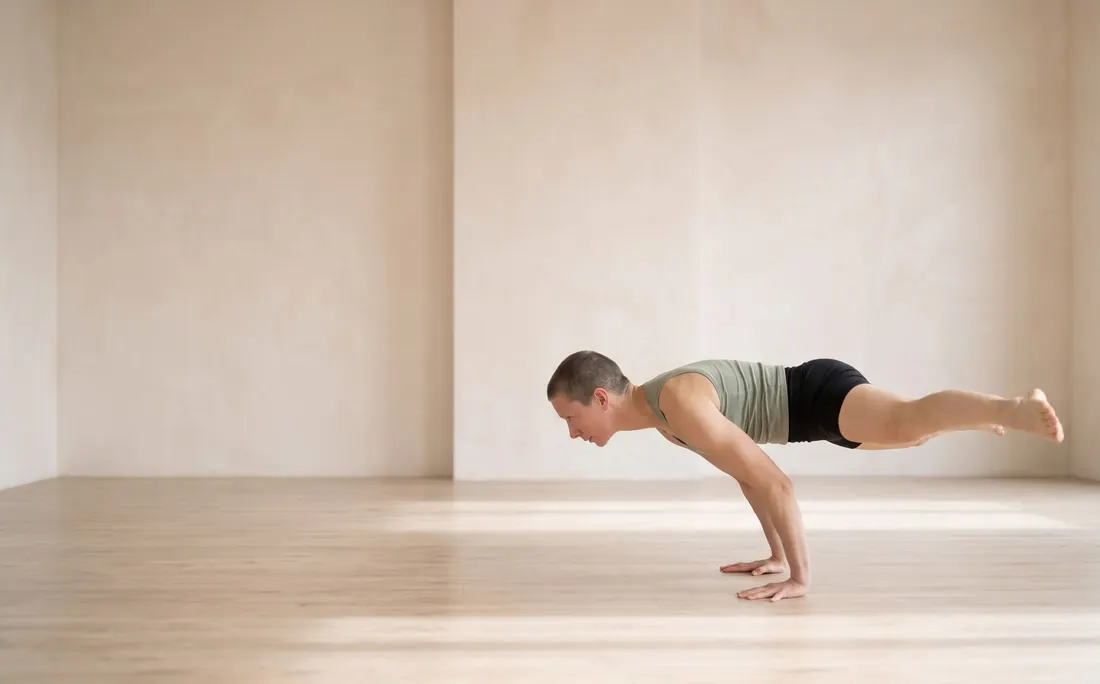
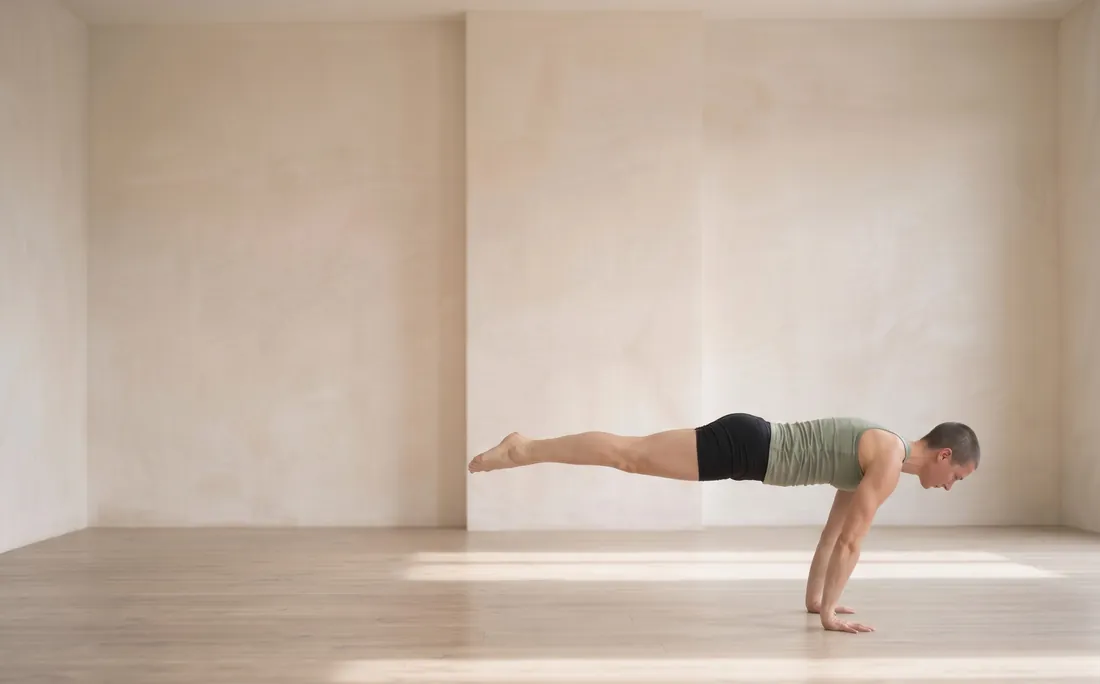
Full planche floor photo: the straight-arm full planche
Claude-Session: https://claude.ai/code/session_01AShNaMdkPZmuTyJS8iYnH5

diff --git a/sw.js b/sw.js
@@ -1,7 +1,7 @@
 // Service worker : l'app s'ouvre instantanément depuis l'appareil, même hors connexion (salle, parc…).
 // Les fichiers de l'app sont mis en cache à l'installation ; chaque nouvelle version change CACHE, s'installe en arrière-plan
 // puis attend que l'utilisateur accepte la mise à jour (ou ferme l'app), pour ne jamais couper une séance en cours.
-const CACHE = "hs-fastway-v246", RUNTIME = "hs-runtime", SPRITES = "hs-sprites";
+const CACHE = "hs-fastway-v247", RUNTIME = "hs-runtime", SPRITES = "hs-sprites";
 const CORE = ["./", "index.html", "manifest.webmanifest", "icon-180.png", "icon-192.png", "icon-512.png", "icon-mask-512.png",
   "fonts/nunito-latin.woff2", "avatar3d.js", "spr-worker.js", "vendor/three.module.min.js",
   "css/app.css", "js/data.js", "js/state.js", "js/yoga.js", "js/parcours.js", "js/sprites.js", "js/scene.js", "js/cycle.js", "js/souple.js", "js/cerveau.js", "js/views.js", "js/voice.js", "js/drills.js", "js/seance.js", "js/bilan.js", "js/zen.js", "js/voie.js", "js/main.js"];
